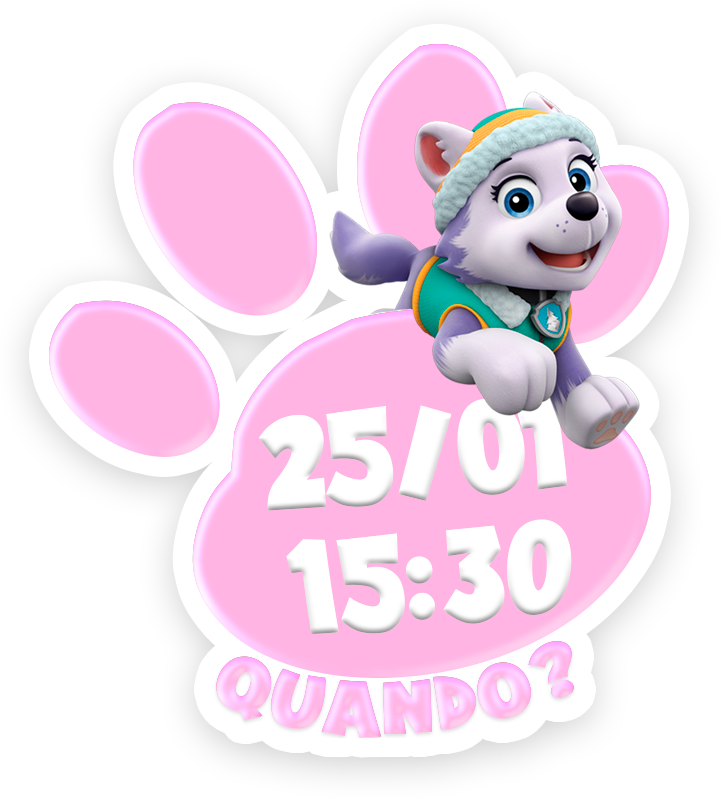
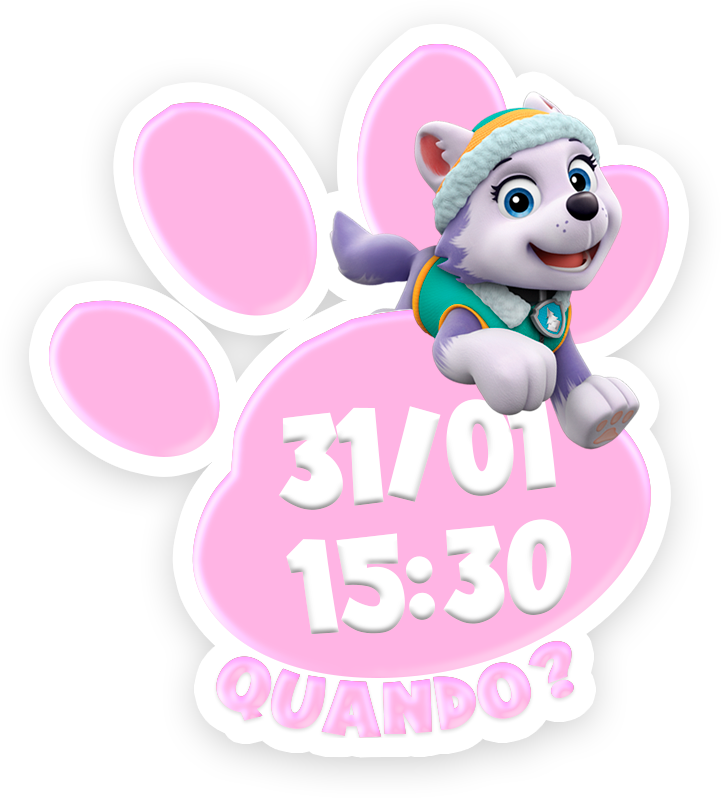
Infos+Links

Changed region(s): [[0.3662, 0.4812, 0.7933, 0.6617]]

diff --git a/index.html b/index.html
@@ -55,10 +55,18 @@
         
                     <section id="infos">
                         <img id="osso" class= "logo" src="./img/osso.png">
+                       
                         <img id="skye2" class= "logo" src="./img/skye4.gif">
-                        <img id="quando" class= "logo" src="./img/quando.png">
-                        <iframe id="mapa" src="https://www.google.com/maps/embed?pb=!1m18!1m12!1m3!1d3602.4123927117653!2d-49.18309598438322!3d-25.457901583775516!2m3!1f0!2f0!3f0!3m2!1i1024!2i768!4f13.1!3m3!1m2!1s0x94dcefdf97ece229%3A0x4204e1e5e4812b95!2sRua%20Rio%20Tocantins%2C%20719%20-%20Weiss%C3%B3polis%2C%20Pinhais%20-%20PR%2C%2083322-170!5e0!3m2!1spt-BR!2sbr!4v1608412381876!5m2!1spt-BR!2sbr" frameborder="0" style="border:0;" allowfullscreen="" aria-hidden="false" tabindex="0"></iframe>
-                        <img id="onde" class= "logo" src="./img/onde.png">
+
+                        <nav id="data" class="data">
+                            <a class="calendario" target="Calendar" onclick="confirmar('https://calendar.google.com/calendar/u/0/r/day/2021/1/31', 'Deseja marcar essa data na sua agenda Google?')" onmouseover="window.status='Confirmar';  return true;" onmouseout="window.status='';  return true;">
+                            <img id="quando" src="./img/quando.png"></a>
+                        </nav>
+
+                        <nav id="local" class="infos">
+                            <iframe id="mapa" src="https://www.google.com/maps/embed?pb=!1m18!1m12!1m3!1d3602.4123927117653!2d-49.18309598438322!3d-25.457901583775516!2m3!1f0!2f0!3f0!3m2!1i1024!2i768!4f13.1!3m3!1m2!1s0x94dcefdf97ece229%3A0x4204e1e5e4812b95!2sRua%20Rio%20Tocantins%2C%20719%20-%20Weiss%C3%B3polis%2C%20Pinhais%20-%20PR%2C%2083322-170!5e0!3m2!1spt-BR!2sbr!4v1608412381876!5m2!1spt-BR!2sbr"  frameborder="0" style="border:0;" allowfullscreen="" aria-hidden="false" tabindex="0"></iframe>
+                            <img id="onde" onclick="confirmar('https://goo.gl/maps/VpZC1coUCnheEo3H9', 'Deseja abrir o Google Maps?')" src="./img/onde.png">
+                        </nav>
                         
                     </section>
         

diff --git a/css/main.css b/css/main.css
@@ -30,7 +30,7 @@
 
 /* Yellow band effect */
 .main-nav::before {
-	 content: '';
+	content: '';
     position: absolute;
     top: 0;
     bottom: 0;
@@ -277,7 +277,7 @@ section{
 #osso{
 	position: absolute;
 	top: 0;
-	
+	z-index: 1;
 	left: 0;
 	width: 100%;
 }
@@ -287,26 +287,42 @@ section{
 	right: 1px;
 	z-index: 2;
 }
+#calendario{
+	position: absolute;
+}
 #quando{
 	position: absolute;
 	width: 65%;
 	left: 0;
-	padding-bottom: 150px;
+	top: 50vw;
+	z-index: 1;
+	animation: bounce 2s infinite;
 }
+
 #onde{
 	position: absolute;
 	width: 70%;
 	right: 0;
 	bottom: 5%;
+	z-index: 1;
+	animation: bounce 2s infinite;
 }
 #mapa{
 	position: absolute;
-	bottom: 211.9px;
+	bottom: 208px;
 	right: 216px;
 	z-index: 2;
 	width: 243px;
 	height: 141.5px;
+	animation: bounceMap 2s infinite;
+	
 }
+.data.clicada #quando::after{
+	display: none;
+	animation: none;
+	border: #000000 12px;
+}
+
 
 
 
@@ -380,7 +396,6 @@ section{
 	30%{opacity: 1;}
 	100%{opacity: 0;}
 }
-
 @keyframes bounce{
     0%{
       opacity: 1;
@@ -394,6 +409,22 @@ section{
       opacity: 1;
       transform: scale(1) translate3d(0,0,0);
     }
+}
+@keyframes bounceMap{
+    0%{
+      opacity: 1;
+	  transform: scale(1) translate3d(0,0,0);
+	  
+    }
+    50%{
+      opacity: 1;
+	  transform: scale(1.07);
+	  bottom: 200px;
+    }
+    100%{
+      opacity: 1;
+	  transform: scale(1) translate3d(0,0,0);
+	}
 }
 
 @keyframes bounceIn{

diff --git a/js/main.js b/js/main.js
@@ -1,6 +1,7 @@
 let burger = document.getElementById('burger'),
 	 nav    = document.getElementById('main-nav'),
-	 item = document.getElementById('itemMenu');
+	 item = document.getElementById('itemMenu'),
+	 quando = document.getElementById('data');
 
 burger.addEventListener('click', function(e){
 	this.classList.toggle('is-open');
@@ -11,6 +12,19 @@ item.addEventListener('click', function(e){
 	burger.classList.toggle('is-open');
 	nav.classList.toggle('is-open');
 });
+
+quando.addEventListener('click', function(e){
+	quando.classList.toggle('clicada');
+});
+
+function confirmar(url, msg){
+	
+    event.preventDefault();  
+    var resposta = confirm(msg);
+    if (resposta == true){
+        top.location.href = url;
+    }
+}    
 
 var NavWidth= 375;
 var NavHeight = 667;

diff --git a/css/test.html b/css/test.html
@@ -1,0 +1,23 @@
+<html>
+<head>
+    <script src="https://ajax.googleapis.com/ajax/libs/jquery/1.11.1/jquery.min.js"></script>
+<script type="text/javascript">
+
+function confirmar(url, msg){
+    event.preventDefault();  
+    var resposta = confirm(msg);
+    if (resposta == true){
+        top.location.href = url;
+    }
+}    
+
+</script>
+</head>
+<body>
+   
+
+    <textarea id="comentario"></textarea>
+    
+    <a href="https://pt.stackoverflow.com/questions/87290/perguntar-se-o-usu%C3%A1rio-deseja-mesmo-sair-da-p%C3%A1gina"
+    onclick="confirmar('https://pt.stackoverflow.com/questions/87290/perguntar-se-o-usu%C3%A1rio-deseja-mesmo-sair-da-p%C3%A1gina', 'Vai sair?')">Sair da página</a>
+</html>
